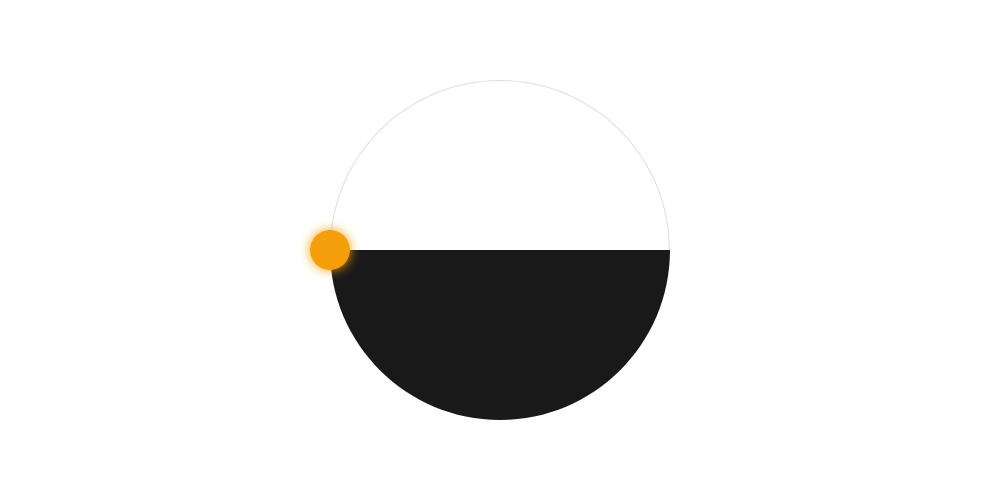
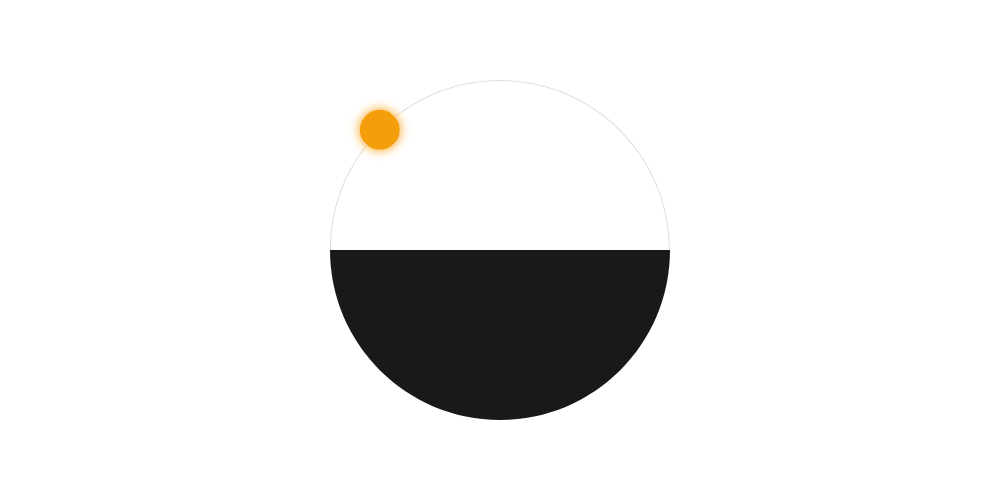
build: update og images

Changed region(s): [[0.279, 0.45, 0.372, 0.57], [0.341, 0.21, 0.403, 0.33]]

diff --git a/widgets/daytime-meter/app.vue b/widgets/daytime-meter/app.vue
@@ -23,7 +23,7 @@ const cssVars = {
 
 // Time
 
-let now = $ref(import.meta.env.PROD ? new Date() : new Date(2023, 2, 12, 6))
+let now = $ref(import.meta.env.PROD ? new Date() : new Date(2023, 2, 12, 9))
 
 if (import.meta.env.PROD) {
   setInterval(() => now = new Date(), 6e4)
